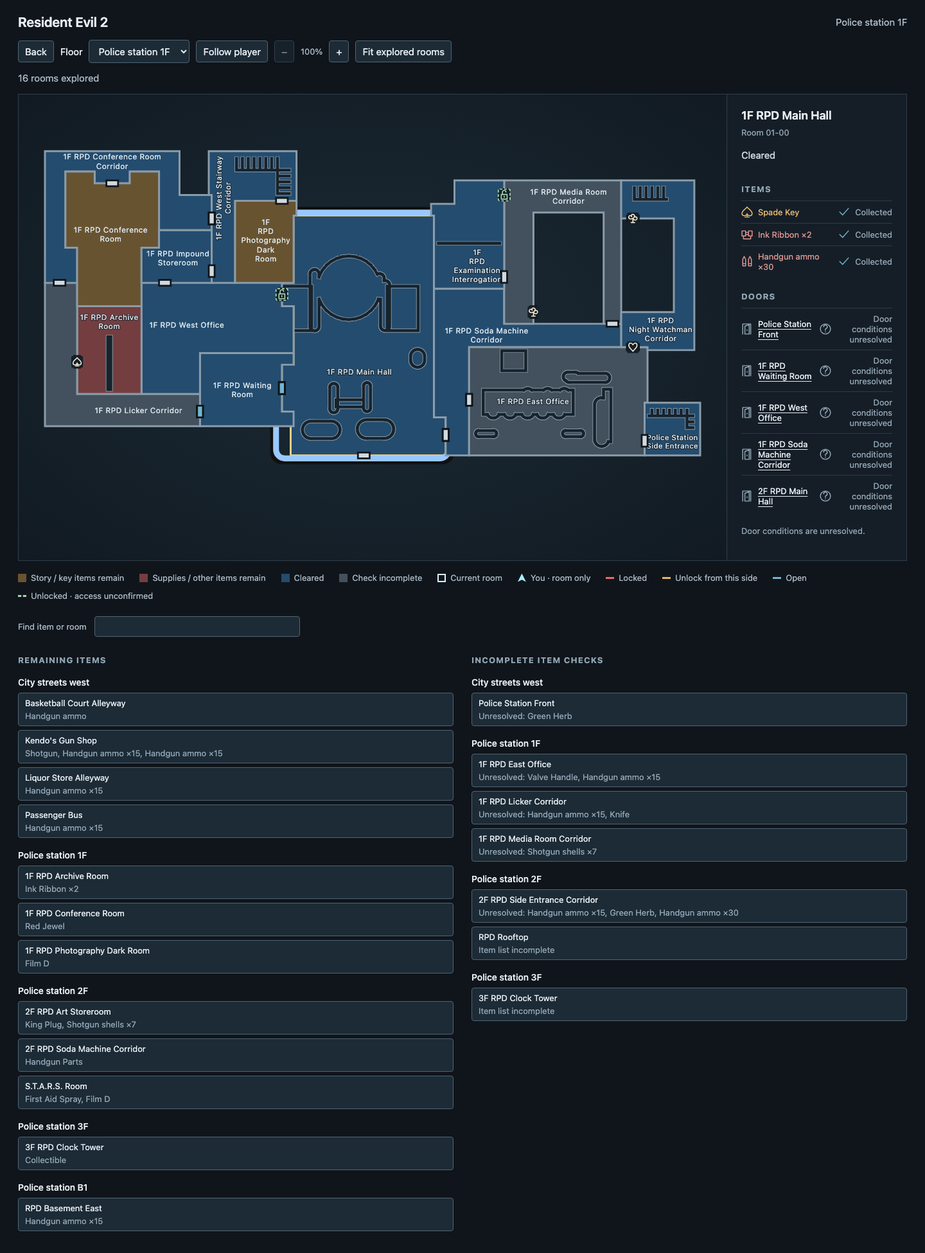
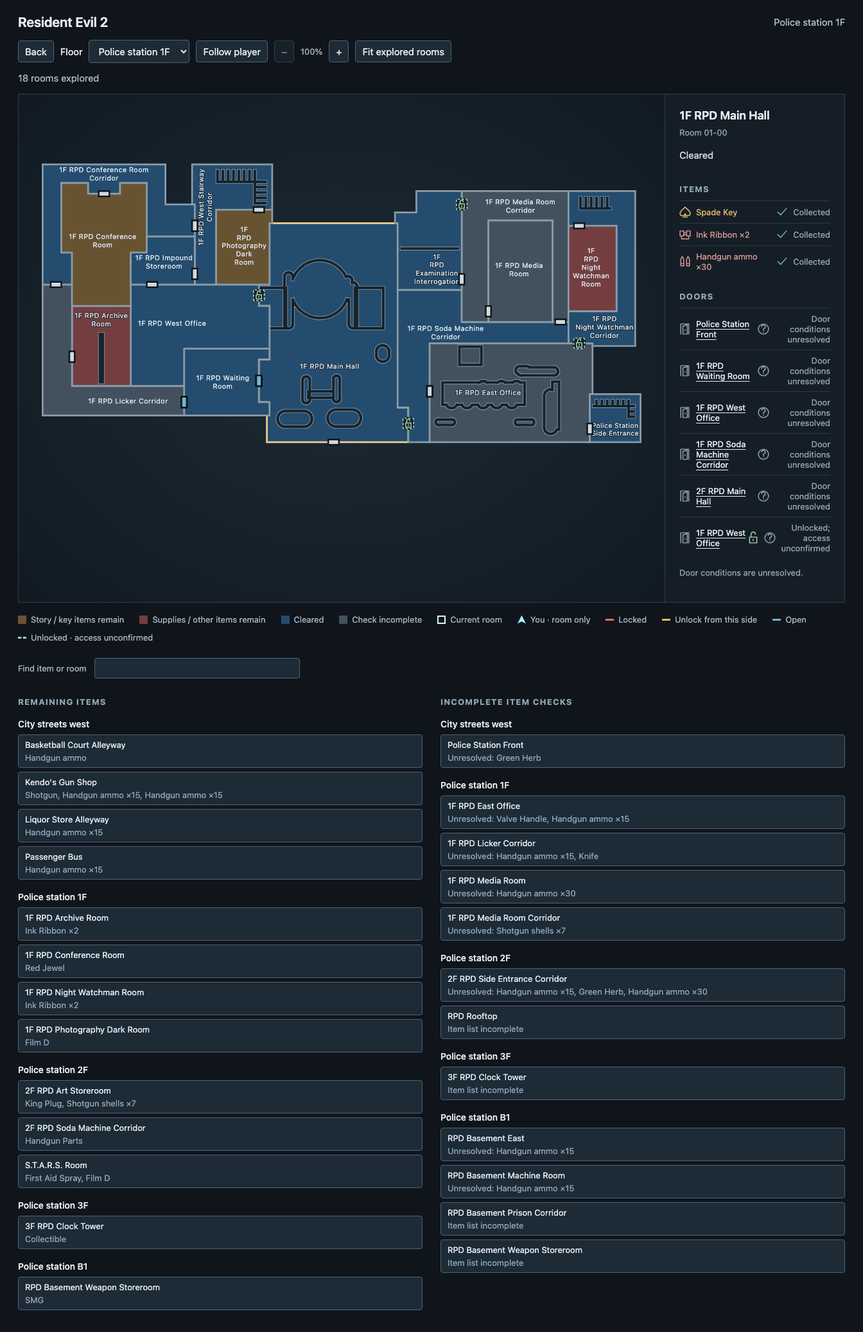
fix(re2): retain used-key unlocks after leaving rooms
Author: gpt-6.1-sol

diff --git a/tests/test_re2_departed_unlock.py b/tests/test_re2_departed_unlock.py
@@ -1,0 +1,174 @@
+"""RE2-DOOR-008: historical unlock flags survive interaction alternatives."""
+
+import copy
+from dataclasses import replace
+
+import pytest
+from test_re2_tracking import profile as profile
+from test_re2_tracking import snapshot as snapshot
+
+from emulator.duckstation_gdb import MemRead
+from games.game_profile import RoomId
+from games.re2.live_tracking import poll_re2
+from tracker.exploration_state import DoorUnlockState, Tracker
+from tracker.polling import PollStatus
+from ui.map_view import map_state
+
+
+@pytest.mark.parametrize(
+    "profile",
+    [
+        "re2_leon_a_slus00421",
+        "re2_claire_b_slus00592",
+        "re2_leon_a_slus00748",
+        "re2_claire_b_slus00756",
+    ],
+    indirect=True,
+)
+@pytest.mark.parametrize("competitor", ["open", "same_lock", "item"])
+@pytest.mark.parametrize("bit", [2, 33])
+def test_departed_alternatives_preserve_only_positive_unlock_evidence(
+    snapshot, competitor, bit
+):
+    profile, _, put, read = snapshot
+    source = copy.deepcopy(profile.rooms["00-00"])
+    definition = source["doors"][0]
+    definition.update(lock_id=0x80 | bit, lock_type=89)
+    if competitor == "item":
+        source["items"].append(
+            {**profile.rooms["00-01"]["items"][0], "slot": definition["slot"]}
+        )
+    else:
+        source["doors"].append(
+            {
+                **definition,
+                "offset": definition["offset"] + 64,
+                "lock_id": 0 if competitor == "open" else 0x80 | bit,
+                "lock_type": 0 if competitor == "open" else 89,
+            }
+        )
+    profile = replace(profile, rooms=profile.rooms | {"00-00": source})
+    key_address, _ = profile.flag_banks[profile.runtime_layout["key_bank"]]
+    tracker = Tracker()
+    tracker.mark_current(RoomId(0, 0))
+    visits = None
+    for unlocked in (False, True, False, True):
+        put(key_address + bit // 32 * 4, 0x80000000 >> (bit % 32) if unlocked else 0, 4)
+        assert poll_re2(profile, tracker, read).status is PollStatus.Display
+        door = next(
+            door
+            for door in tracker.doors
+            if door.observation_id == f"00-00:{definition['offset']}"
+        )
+        assert door.state == "UNCHECKED"
+        assert door.unlock_state is (
+            DoorUnlockState.Unlocked if unlocked else DoorUnlockState.Unknown
+        )
+        assert door.key_label == ("" if unlocked else "Spade Key")
+        assert door.label == (
+            "Unlocked; access unconfirmed" if unlocked else "Door conditions unresolved"
+        )
+        published = next(
+            row
+            for row in map_state(tracker)["doors"]
+            if row["observation_id"] == door.observation_id
+        )
+        assert published["unlock_state"] == door.unlock_state.value
+        fresh = Tracker()
+        fresh.mark_current(RoomId(0, 0))
+        assert poll_re2(profile, fresh, read).status is PollStatus.Display
+        assert fresh == tracker
+        if visits is None:
+            visits = tracker.region_visits.copy()
+        assert tracker.region_visits == visits
+
+
+@pytest.mark.parametrize(
+    ("field", "value"),
+    [
+        ("stage", 1),
+        ("room", 2),
+        ("floor", 1),
+        ("center", [123, 456]),
+        ("four_point", True),
+        ("activation_floor", 1),
+        ("lock_id", 0x83),
+        ("lock_type", 91),
+        ("offset", None),
+    ],
+)
+def test_conflicting_departed_doors_cannot_borrow_a_set_unlock_bit(
+    snapshot, field, value
+):
+    profile, _, put, read = snapshot
+    source = copy.deepcopy(profile.rooms["00-00"])
+    definition = source["doors"][0]
+    definition.update(lock_id=0x82, lock_type=89)
+    alternative = {**definition, "offset": definition["offset"] + 64}
+    alternative[field] = definition["offset"] if field == "offset" else value
+    source["doors"].append(alternative)
+    profile = replace(profile, rooms=profile.rooms | {"00-00": source})
+    key_address, _ = profile.flag_banks[profile.runtime_layout["key_bank"]]
+    put(key_address, 0x20000000, 4)
+    tracker = Tracker()
+    tracker.mark_current(RoomId(0, 0))
+    assert poll_re2(profile, tracker, read).status is PollStatus.Display
+    doors = [door for door in tracker.doors if door.source == RoomId(0, 0)]
+    assert len(doors) == 2
+    assert all(door.state == "UNCHECKED" for door in doors)
+    assert all(door.unlock_state is DoorUnlockState.Unknown for door in doors)
+    assert doors[0].key_label == "Spade Key"
+
+
+@pytest.mark.parametrize("profile", ["re2_leon_a_slus00748"], indirect=True)
+@pytest.mark.parametrize(
+    ("source", "offset", "bit", "key_name"),
+    [
+        ("00-14", 2562, 9, "Spade Key"),
+        ("01-04", 6430, 5, "Spade Key"),
+        ("01-0b", 12090, 4, "Heart Key"),
+    ],
+)
+def test_reported_key_doors_rebuild_from_fresh_flags(
+    snapshot, source, offset, bit, key_name
+):
+    profile, _, put, read = snapshot
+    tracker = Tracker()
+    stage, room = source.split("-")
+    tracker.mark_current(RoomId(int(stage, 16), int(room, 16)))
+    key_address, _ = profile.flag_banks[profile.runtime_layout["key_bank"]]
+    for unlocked in (False, True, False):
+        put(key_address, 0x80000000 >> bit if unlocked else 0, 4)
+        assert poll_re2(profile, tracker, read).status is PollStatus.Display
+        door = next(
+            door
+            for door in tracker.doors
+            if door.observation_id == f"{source}:{offset}"
+        )
+        assert door.state == "UNCHECKED"
+        assert door.unlock_state is (
+            DoorUnlockState.Unlocked if unlocked else DoorUnlockState.Unknown
+        )
+        assert door.key_label == ("" if unlocked else key_name)
+
+
+@pytest.mark.parametrize("fault", ["changed", "short"])
+def test_departed_alternative_unlock_read_is_atomic(snapshot, fault):
+    profile, _, put, read = snapshot
+    tracker = Tracker()
+    tracker.mark_current(RoomId(1, 4))
+    assert poll_re2(profile, tracker, read).status is PollStatus.Display
+    before = copy.deepcopy(tracker)
+    key_address, _ = profile.flag_banks[profile.runtime_layout["key_bank"]]
+
+    def torn_read(address, width):
+        if address == key_address and width == 4:
+            if fault == "short":
+                return MemRead(True, b"\x00")
+            put(key_address, 0x04000000, 4)
+        return read(address, width)
+
+    assert poll_re2(profile, tracker, torn_read).status is (
+        PollStatus.Retry if fault == "changed" else PollStatus.ReadFailure
+    )
+    assert tracker == before

diff --git a/src/games/re2/live_tracking.py b/src/games/re2/live_tracking.py
@@ -580,24 +580,52 @@ def poll_re2(
                     else ""
                 )
                 unlock_state = DoorUnlockState.Unknown
-                # Current payloads can change targets and locks, so source
-                # operands cannot replace a missing live binding. Departed
-                # competing creators also cannot identify this side's lock;
-                # never cache the last creator through departure or rewind.
-                if lock["lock_id"] & 0x80 and (
-                    observed is not None
-                    or visited != key
-                    and sum(
-                        creator["slot"] == definition["slot"]
-                        for creator in source["doors"] + source["items"]
-                    )
-                    == 1
-                ):
-                    unlock_state = (
-                        DoorUnlockState.Unlocked
-                        if flag(layout["key_bank"], lock["lock_id"] & 0x3F)
-                        else DoorUnlockState.Locked
-                    )
+                if lock["lock_id"] & 0x80:
+                    key_unlocked = flag(layout["key_bank"], lock["lock_id"] & 0x3F)
+                    # Current payloads can change targets and locks, so source
+                    # operands cannot replace a missing live binding.
+                    bound = observed is not None
+                    if visited != key:
+                        creators = [
+                            creator
+                            for creator in source["doors"] + source["items"]
+                            if creator["slot"] == definition["slot"]
+                        ]
+                        # RE2-DOOR-008: native key use records an unlock before
+                        # later open/item creators can replace the interaction.
+                        # That positive history does not prove activation or a
+                        # lock from an unset bit, nor identify a different door.
+                        bound = len(creators) == 1 or (
+                            key_unlocked
+                            and len({creator["offset"] for creator in creators})
+                            == len(creators)
+                            and all(
+                                all(
+                                    creator[field] == definition[field]
+                                    for field in (
+                                        "stage",
+                                        "room",
+                                        "floor",
+                                        "center",
+                                        "four_point",
+                                        "activation_floor",
+                                    )
+                                )
+                                and (
+                                    not creator["lock_id"] & 0x80
+                                    or (creator["lock_id"], creator["lock_type"])
+                                    == (definition["lock_id"], definition["lock_type"])
+                                )
+                                for creator in source["doors"]
+                                if creator["slot"] == definition["slot"]
+                            )
+                        )
+                    if bound:
+                        unlock_state = (
+                            DoorUnlockState.Unlocked
+                            if key_unlocked
+                            else DoorUnlockState.Locked
+                        )
                 unlocked = unlock_state is DoorUnlockState.Unlocked
                 if unlocked:
                     key_label = ""

diff --git a/tests/test_re2_tracking.py b/tests/test_re2_tracking.py
@@ -1894,9 +1894,13 @@ def test_live_door_slot_suppresses_only_superseded_current_variants(snapshot):
             for door in departed
             if door.observation_id == f"00-01:{alternative['offset']}"
         )
-        assert alternative_door.label == "Door conditions unresolved"
-        assert alternative_door.unlock_state is DoorUnlockState.Unknown
-        assert alternative_door.key_label == "Spade Key"
+        assert alternative_door.label == (
+            "Unlocked; access unconfirmed" if flags else "Door conditions unresolved"
+        )
+        assert alternative_door.unlock_state is (
+            DoorUnlockState.Unlocked if flags else DoorUnlockState.Unknown
+        )
+        assert alternative_door.key_label == ("" if flags else "Spade Key")
 
 
 @pytest.mark.parametrize(
@@ -2380,7 +2384,7 @@ def test_departed_door_retains_fresh_unlock_knowledge_without_claiming_access(sn
 @pytest.mark.parametrize("departed", [False, True])
 @pytest.mark.parametrize("fault", ["missing", "geometry", "duplicate", "item"])
 def test_unbound_door_creators_do_not_gain_unlock_knowledge(snapshot, departed, fault):
-    """RE2-DOOR-005: source/slot ambiguity cannot choose a lock from a set bit."""
+    """RE2-DOOR-005/008: binding and positive historical unlock stay separate."""
     profile, _, put, read = snapshot
     source = copy.deepcopy(profile.rooms["00-01"])
     definition = source["doors"][0]
@@ -2418,7 +2422,7 @@ def test_unbound_door_creators_do_not_gain_unlock_knowledge(snapshot, departed, 
             assert door.state == "UNCHECKED"
             assert door.unlock_state is (
                 DoorUnlockState.Unlocked
-                if departed and fault in ("missing", "geometry") and flags
+                if departed and fault in ("missing", "geometry", "item") and flags
                 else DoorUnlockState.Locked
                 if departed and fault in ("missing", "geometry")
                 else DoorUnlockState.Unknown

diff --git a/docs/research/re2/dualshock.md b/docs/research/re2/dualshock.md
@@ -568,3 +568,48 @@ The other reported checks remain independent. Rooftop `00-08` still needs bounde
 The corridor follow-up in `corridor-blockers.py/json` tests the proposed `85` plus switch-only boundary without editing production. It next rejects `38` at 11238, `47` at 11372 with message kind four, current-task replacement `03` at 11668 and motion `2F` at 11954. Suppressing all those guards still fails source-entry closure and establishes no exclusion, presence correction or publication outcome. This rejects the switch-only implementation path until new evidence closes the independent source-mutation, dispatch, task and Work-lifetime obligations.
 
 Contributions, 2026-11-01: human user supplies both screenshots and playthrough saves. Root, exact model `gpt-6.1-sol`, authors the shared correction, regressions, generation, save replay, independent audit rerun and this entry. The `corridor_checks` agent, the same verified model, authors the native audit and source diagnostic, then independently reviews all six code/data/test changes and reruns seventeen focused cases with no findings. The `roof_checks` agent, the same verified model, diagnoses the remaining source barriers without editing production. Gemini `gemini-3.8-flash`, high reasoning, returns "No findings" on the supplied complete interpreter, diff, runtime consumer, native disassembly and fixture snapshot, checking correctness, revision bounds, aliases, regressions and complexity. Its prose review performs no runtime validation. Claude `claude-opus-5-5` is unavailable because its provider is disabled. Root's final review retains these evidence limits; no unavailable review is counted as endorsement.
+
+## RE2-DOOR-008: used keys retain positive unlock evidence after departure
+
+Status: Candidate for the four supported RE2 profiles. The reported DualShock Spade/Heart outcomes reproduce from saved RAM. This correction adds no native key-use, passage, room-entry or savestate-load experiment. [RE2-DOOR-002](../re2.md#re2-door-002-named-key-use-and-savestate-reversal) retains the separate confirmed original-release key-use lifecycle.
+
+### Reproduction and source evidence
+
+The human's 2026-11-03 screenshots report Spade and Heart emblems after using those keys. On baseline `0da3ddd`, three explored source declarations still have Unknown unlock knowledge: `00-14:2562`, `01-04:6430` and `01-0b:12090`. The reader requires exactly one door/item creator in a departed interaction slot, discarding positive unlock flags whenever an alternative exists.
+
[1 lines of base64/hex data omitted]
+
[1 lines of base64/hex data omitted]
+
+Addresses are PS1 virtual, not RAM offsets or host pointers. Bank 31 starts at `0x800D4A34`, width eight bytes; each consumed word is unsigned 32-bit little-endian. Lock ID/type are unsigned source descriptor bytes at payload offsets 15/16, masks `0xFF`. Lock ID bit `0x80` enables the binding; `lock_id & 0x3F` selects the bank bit. The word address adds `bit // 32 * 4`, with mask `0x80000000 >> (bit % 32)`. Reported bits 9/5/4 use first-word masks `0x00400000`, `0x04000000` and `0x08000000` respectively. Other revisions retain their configured addresses and earlier claim limits.
+
+Owned sources match the checked-in metadata hashes:
+
+| Source | Competing declarations | RDT SHA256 |
+| --- | --- | --- |
[3 lines of base64/hex data omitted]
+
+The original-release native handler and observed lifecycle in RE2-DOOR-002 set the dedicated unlock flag before reducing the key's use count. A later item/open creator can change activation without undoing that historical unlock. This source-backed interpretation does not promote the DualShock cases to native confirmation.
+
+### Shared correction and verification
+
+A departed keyed declaration may now publish Unlocked from a fresh set bit when every door creator sharing its slot agrees on stage, target room/floor, center, geometry kind and activation floor, and every locking alternative agrees on lock ID/type. Duplicate creator offsets remain unresolved. The guard compares the available metadata fields; it is not a new whole-source immutability or complete geometry proof. Item competition cannot erase positive unlock history. It still prevents inferring Locked from an unset bit. Different door identities or locks remain unresolved even with a set bit.
+
+Current live bindings retain authority, including missing/invalid descriptors and zero activation. Departed access stays Unchecked unless its independent existing source proof establishes otherwise. No visit, inventory state or previous publication supplies unlock knowledge. Fresh flags and existing coherence checks reverse the cue after a rewind. This supersedes RE2-DOOR-005's blanket withholding for compatible departed alternatives, while retaining uncertainty for conflicting identities.
+
+Private evidence is `/tmp/re-map-used-keys-20261103/`. `replay.py` compares baseline and corrected readers across eighteen unique retained RAM images, sixteen Display and two Retry. It checks equal results and every tracker field except door unlock/label/key-label, then checks equal door identities, targets and access. Thirty-one repeated observations gain positive unlock knowledge. In each of the three playthrough snapshots, the three reported declarations change to Unlocked with empty key labels. Other compatible declarations also benefit. Fresh visits-only reconstruction reproduces all sixteen Display publications. Replay is not a newly observed native restore, and raw RAM, decoded game bytes and savestates stay outside Git.
+
+The 707-case focused selection and full Python suite pass, with 4415 passed and one skipped. The default Python initially lacks Shapely; the full run uses a private temporary venv with Shapely 2.2.0 and NumPy 2.5.4. No repository or system dependency files change. Of the 38 added synthetic cases, 29 fail against baseline and nine retain the conflicting-identity protections. They cover all four profiles, both flag words, compatible and conflicting creators, all three reported declarations, flag reversal, fresh reconstruction and atomic short/torn reads. Existing current-binding and inactive-door cases remain covered. Scoped Ruff formatting/lint and whitespace checks pass.
+
+The existing unlock browser suite passes at desktop/mobile sizes. `check-saved-map.mjs` separately renders the actual corrected saved publication at 1344×1000 and 390×1100. Each reported marker shows the existing open-padlock cue on its source side, survives overlapping alternatives, returns to the baseline key cue when redrawing the old publication and preserves the chosen view. There are no page errors or horizontal page overflow. The README screenshot is refreshed from that tracker render. No renderer code, map geometry or game screenshots change.
+
+Delivery restarts only the existing tracker, retaining its original profile/history arguments, playthrough identity and every existing room/region visit. The emulator and saves are untouched. The fresh live endpoint remains Waiting with `Changing rooms...` during the final check, so no corrected live gameplay publication is claimed. `live-after-restart.json` preserves that limit; the verified corrected markers come from the saved-state replay and headless renders above. All 483 local documentation targets pass validation.
+
+Contributions, 2026-11-03:
+
+- Human user reports the stale Spade/Heart emblems and supplies the two cropped tracker images and existing playthrough state.
+- Root, exact executing model `gpt-6.1-sol`, reproduces the saved-state failure, writes the shared reader correction and regressions, compares retained captures, verifies rendered markers and authors this record. Direct review checks source/current authority, positive-only evidence, identity conflicts, flag bounds, coherence, rewind, exploration, item/access separation and scope.
+- `door_binding` research agent, the same inherited model `gpt-6.1-sol`, independently inspects the three owned scripts, verifies source hashes and marker bindings, and identifies the existing native key-use evidence. It changes no files or emulator state and performs no new gameplay validation.
+- Gemini, returned exact model `gemini-3.8-flash`, high reasoning, reviews the supplied complete diff, added tests, reader/binding/coherence context, rendering consumer and source-evidence summary. It returns "No findings" without using tools or editing files. This prose review supplies no runtime validation. Claude `claude-opus-5-5` cannot be consulted because its provider is disabled; no substitute or endorsement is claimed.

diff --git a/docs/testing/re2.md b/docs/testing/re2.md
@@ -249,6 +249,8 @@ A private replay compares the old and new readers over 19 unchanged RE2-LIVE-002
 
 ## Door unlock state
 
+[RE2-DOOR-008](../research/re2/dualshock.md#re2-door-008-used-keys-retain-positive-unlock-evidence-after-departure) covers positive historical unlocks alongside compatible departed creators. Run `python3 -m pytest -q tests/test_re2_departed_unlock.py tests/test_re2_tracking.py tests/test_re2_door_variants.py tests/test_re2_profile.py tests/test_map_view.py tests/test_tracker.py tests/test_visit_history.py tests/test_re2_door_layout.py`. The 38 new synthetic cases cover all four profiles, both flag words, open/keyed/item alternatives, conflicting identity fields, duplicate offsets, the three reported source declarations, fresh reconstruction, reversal and atomic short/torn reads. An unset bit does not prove Locked when alternatives compete; a current missing descriptor never borrows departed evidence.
+
 [RE2-DOOR-005](../research/re2/dualshock.md#re2-door-005-display-fresh-unlock-knowledge-separately-from-access) covers the separate typed unlock state and graphical map/list cue. Run `python3 -m pytest -q tests/test_tracker.py tests/test_map_view.py tests/test_re2_tracking.py tests/test_re2_door_layout.py tests/test_door_projection.py tests/test_door_state.py tests/test_visit_history.py`, both existing browser scripts, and `bun tests/check_door_unlock_browser.mjs <python> <private-output-directory>`. The last command writes desktop/mobile synthetic renders and a JSON report, without a server or emulator. Set `NODE_PATH` to the bundled Playwright modules when needed. It checks fresh unlocked versus unknown/locked state, blocked access, flag reversal, selected-side and creator ambiguity, overlapping markers, hidden destinations and stable zoom. The existing RE1 browser suite verifies its access/key rendering without fabricated unlock knowledge.
 
 [RE2-DOOR-001](../research/re2.md#re2-door-001-event-driven-unlock-and-savestate-reversal) records one event-driven bank 31 bit 17 unlock. Ten accepted case captures verify the native flag change, paired current-door states, denied passage before activation, passage in both directions, reentry, actual earlier/later loads and a repeated native unlock. Three additional setup captures are listed separately. The earlier and later restores reproduce their original RAM bytes. A departed door retains only fresh unlock knowledge and loses that label after reversal. A separate production history-file round trip reconstructs both outcomes from the real captures without persisting access verdicts.

diff --git a/docs/research.md b/docs/research.md
@@ -284,6 +284,7 @@ Findings are grouped by game and topic. Each entry retains its own status, revis
 | [RE2-DOOR-005](research/re2/dualshock.md#re2-door-005-display-fresh-unlock-knowledge-separately-from-access) | explicit fresh unlock state and map/list padlock cues retain access uncertainty, side/creator binding and reversal; offline checks only |
 | [RE2-DOOR-006](research/re2/dualshock.md#re2-door-006-alternate-door-creators-share-one-detail-row) | equivalent registry-slot alternatives share a detail row while preserving all wall observations and unresolved completion |
 | [RE2-DOOR-007](research/re2/immutable-doors.md#re2-door-007-bounded-native-writes-preserve-departed-open-doors) | native entry and write bounds preserve two Waiting Room door bindings after departure; fresh applicability and current live registry remain mandatory |
+| [RE2-DOOR-008](research/re2/dualshock.md#re2-door-008-used-keys-retain-positive-unlock-evidence-after-departure) | fresh historical unlock flags survive compatible open/item alternatives; reported Spade/Heart markers corrected without inferring current access |
 | [RE2-STARTUP-001](research/re2/startup-presence.md#re2-startup-001-setup-effects-and-equivalent-creators-preserve-known-items) | shared audited setup receipts and collective equivalent-creator goals resolve three departed examination/interrogation item checks |
 | [RE2-STARTUP-002](research/re2/startup-declarations.md#re2-startup-002-a-bounded-startup-prefix-establishes-a-remaining-pickup) | bounded positive startup declaration, complete incoming-resource binding and native 00-02 pickup/reentry evidence; one departed remaining-item correction, with constructor-suspension limits |
 | [RE2-STARTUP-003](research/re2/startup-declarations.md#re2-startup-003-source-00-03-needs-historical-mode-and-prefix-ownership) | conditional departed presence remains unresolved; two native one-unit pickups, ordinary reentry and four exact paused-startup restores retain the independent Unknown item |

diff --git a/docs/re2.md b/docs/re2.md
@@ -44,6 +44,8 @@ Uniquely matched doorways appear once on the shared wall. Selecting a room shows
 
 Freshly confirmed unlocks also show a green open padlock. Its frame stays dashed while access is unconfirmed, red while the door is inactive and cyan while open. Departed doors never become Open from visits or earlier passage alone. Ambiguous creator/side bindings keep unlock knowledge Unknown. [RE2-DOOR-005](research/re2/dualshock.md#re2-door-005-display-fresh-unlock-knowledge-separately-from-access) records the model and reversal checks.
 
+Used keys retain their unlock cue after departure when compatible open-door or item interactions share their script slot. This reads fresh unlock flags, without assuming the door is active or the competing item is absent. Conflicting door identities remain unresolved. [RE2-DOOR-008](research/re2/dualshock.md#re2-door-008-used-keys-retain-positive-unlock-evidence-after-departure) records the Spade/Heart correction and saved-state checks.
+
 Interior structures use dark cores with thin outlines, and room names avoid those structures. [RE2-MAP-003](research/re2.md#interior-presentation-follow-up-2026-10-27) records the alleyway presentation check.
 
 The DualShock Main Hall and East Office also show source-derived collision footprints and ramp/step envelopes where their original map sprites are empty. These are approximate navigation shapes; exact visible walls and stair treads remain unverified. [RE2-MAP-006](research/re2/interiors.md#re2-map-006-collision-footprints-supplement-two-empty-native-room-sprites) records the geometry and limits.

diff --git a/README.md b/README.md
@@ -71,4 +71,4 @@ python3 tools/track.py --profile profiles/re2_claire_b_slus00756.json --map
 
 Each revision and scenario has a separate exploration history. Keep RetroAchievements in Casual/Softcore mode when using the tracker and savestates. The [RE2 guide](docs/re2.md) lists the exact disc identities and validation limits.
 
-![RE2 map with the cleared Main Hall and separate remaining items and incomplete checks](docs/images/re2-map.png)
+![RE2 map with the cleared Main Hall, unlocked doors, remaining items and incomplete checks](docs/images/re2-map.png)
